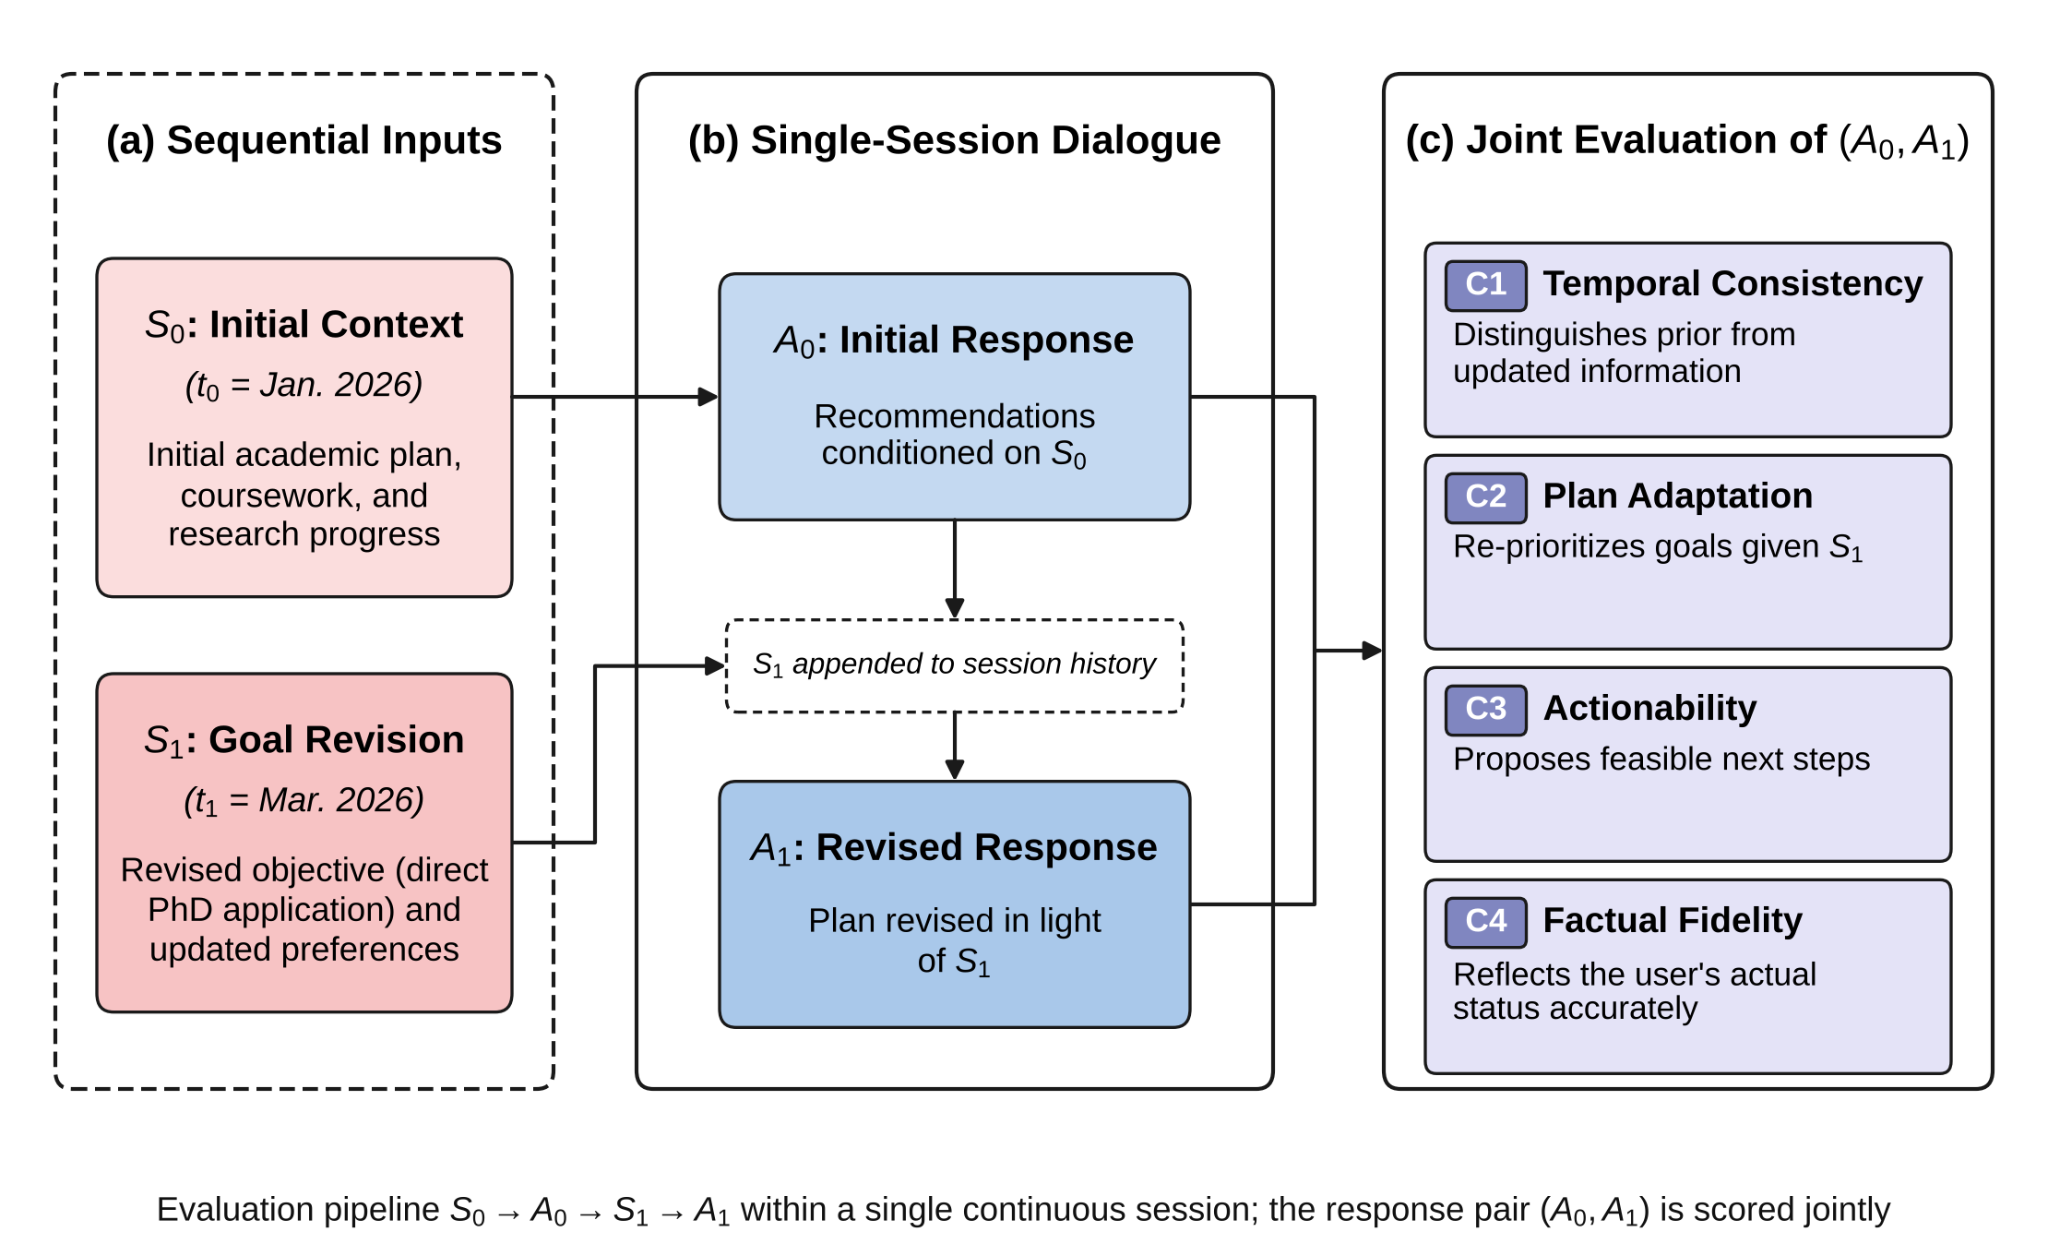
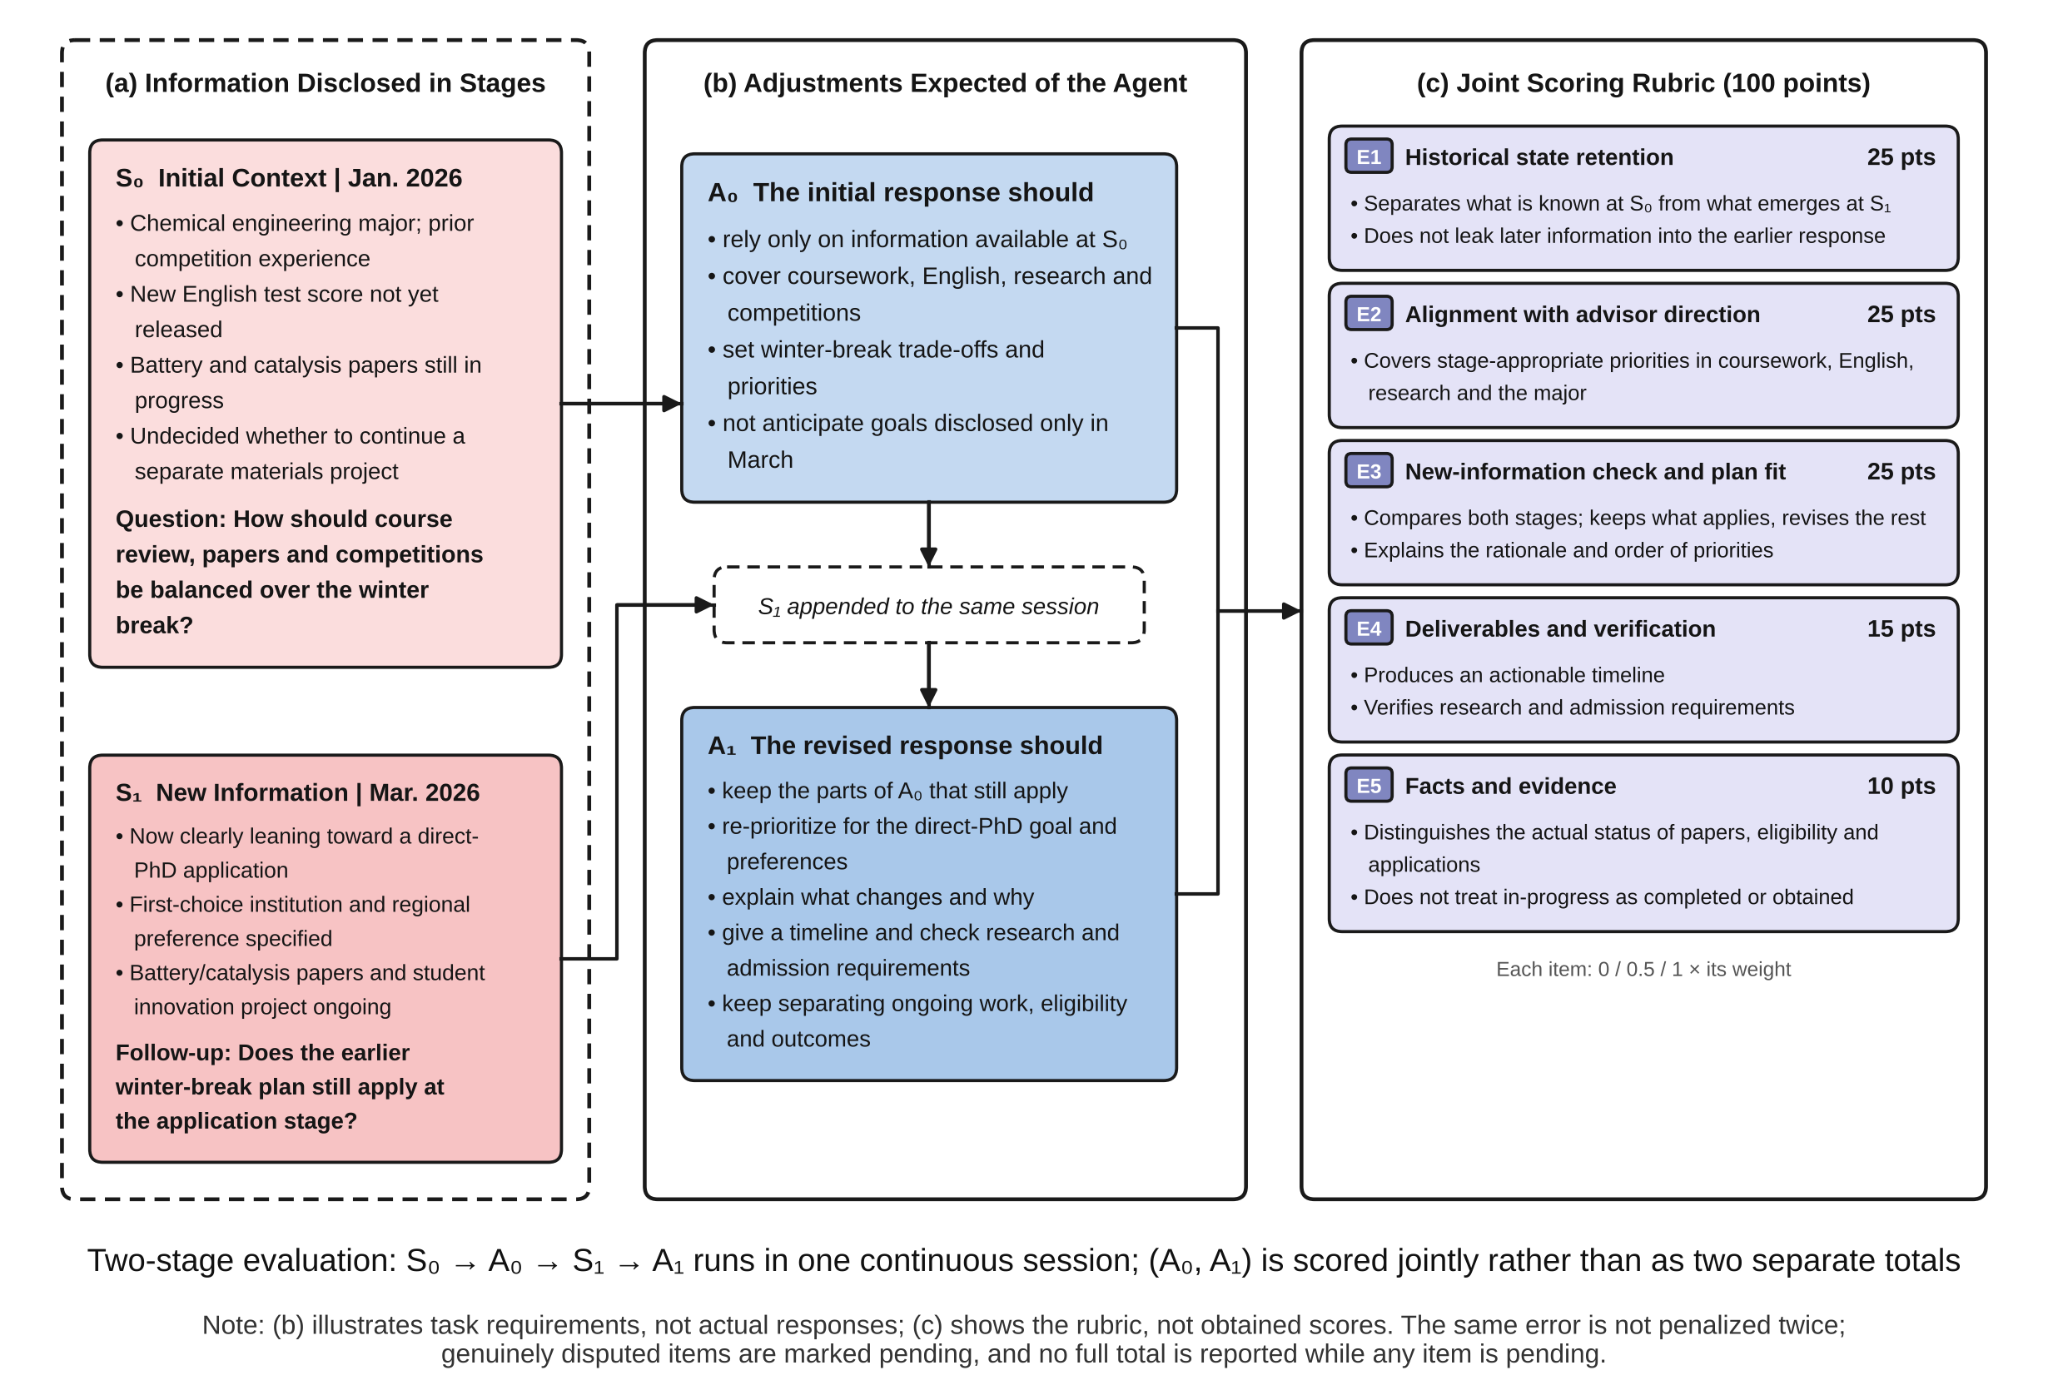
Update bilingual two-stage task example and rubric figures

diff --git a/README.md b/README.md
@@ -81,7 +81,7 @@ Each task is worth 100 points. Full recommendation tasks allocate 70 points to r
 
 ![Two-stage evaluation within a single session](docs/figures/dev70-current/fig2_en.png)
 
-Two-stage tasks supply initial context S₀ followed by updated information S₁ in the same session, producing initial response A₀ and revised response A₁ for joint scoring. The January-to-March scenario and shift to direct PhD applications correspond to public task [O03-04](data/staged-dev/O03-04/task.json). C1–C4 summarize evaluation concerns; point allocations follow each task’s rubric.
+Two-stage tasks supply initial context S₀ followed by updated information S₁ in the same session, producing initial response A₀ and revised response A₁ for joint scoring. The January-to-March scenario and shift to direct PhD applications correspond to public task [O03-04](data/staged-dev/O03-04/task.json). E1–E5 correspond to this example’s five scoring criteria, weighted 25, 25, 25, 15 and 10 points; see the [O03-04 rubric](data/staged-dev/O03-04/rubric.json). Panel (b) illustrates task requirements, and panel (c) shows the rubric.
 
 [All questions and criteria](data/questions-and-scoring.md) · [Task index](config/selections/current.json) · [Data format](docs/dataset.md) · [Scoring rules](docs/scoring.md)
 

diff --git a/README.zh-CN.md b/README.zh-CN.md
@@ -81,7 +81,7 @@ python3 -m benchmark cli-batch \
 
 ![同一会话两阶段评测流程](docs/figures/dev70-current/fig2_zh.png)
 
-两阶段任务依次提供初始情境 S₀ 与新增信息 S₁，在同一会话中获得初始回复 A₀ 与修订回复 A₁，并联合评分。图中的一月到三月、转向直博情境对应公开任务 [O03-04](data/staged-dev/O03-04/task.json)；C1–C4 概括评估关注点，具体分值以逐题评分标准为准。
+两阶段任务依次提供初始情境 S₀ 与新增信息 S₁，在同一会话中获得初始回复 A₀ 与修订回复 A₁，并联合评分。图中的一月到三月、转向直博情境对应公开任务 [O03-04](data/staged-dev/O03-04/task.json)；E1–E5 对应本例的五项评分标准，权重依次为 25、25、25、15、10 分，详见 [O03-04 评分标准](data/staged-dev/O03-04/rubric.json)。图中 (b) 是任务要求示意，(c) 是评分标准。
 
 [全部题目与评分条件](data/questions-and-scoring.md) · [题库索引](config/selections/current.json) · [数据结构](docs/dataset.md) · [评分通则](docs/scoring.md)
 
